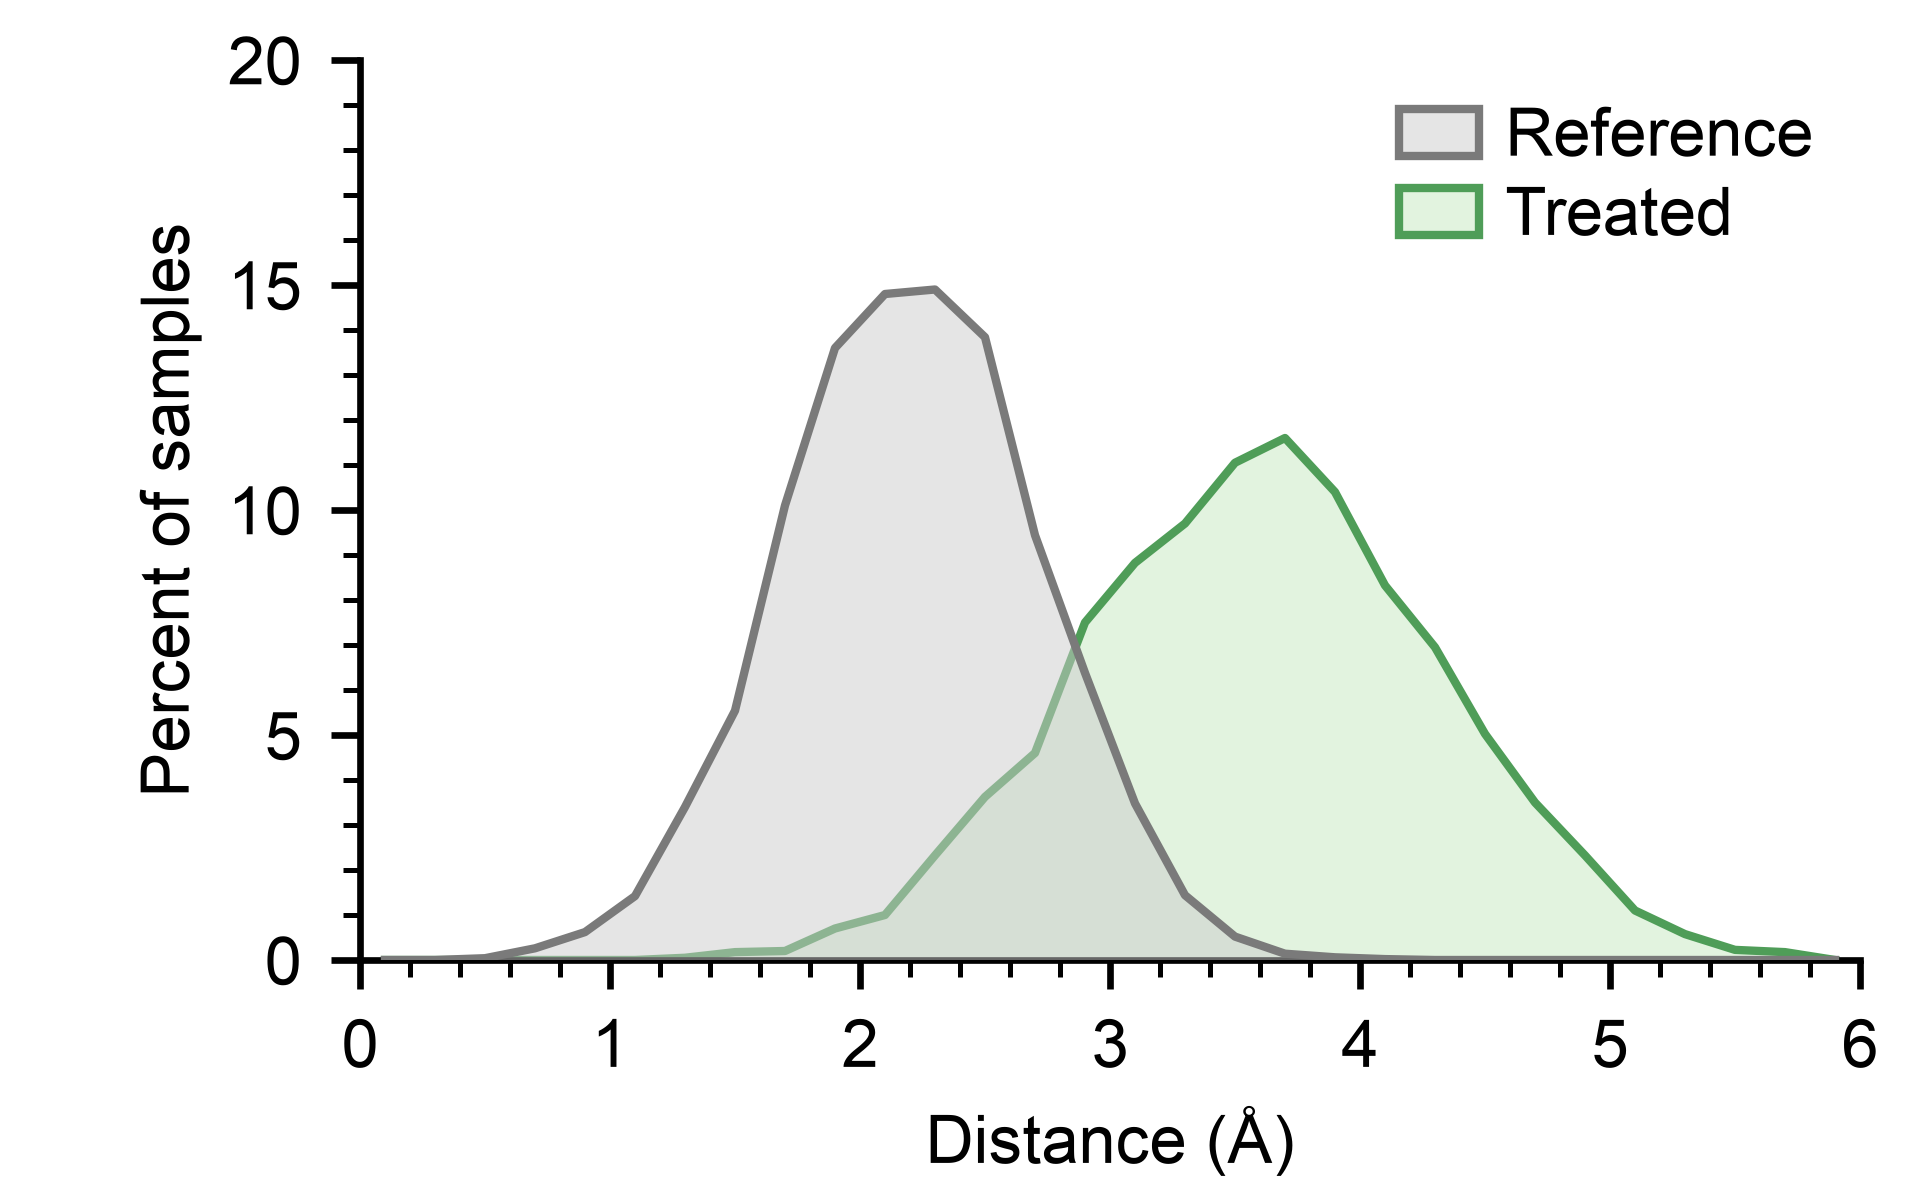
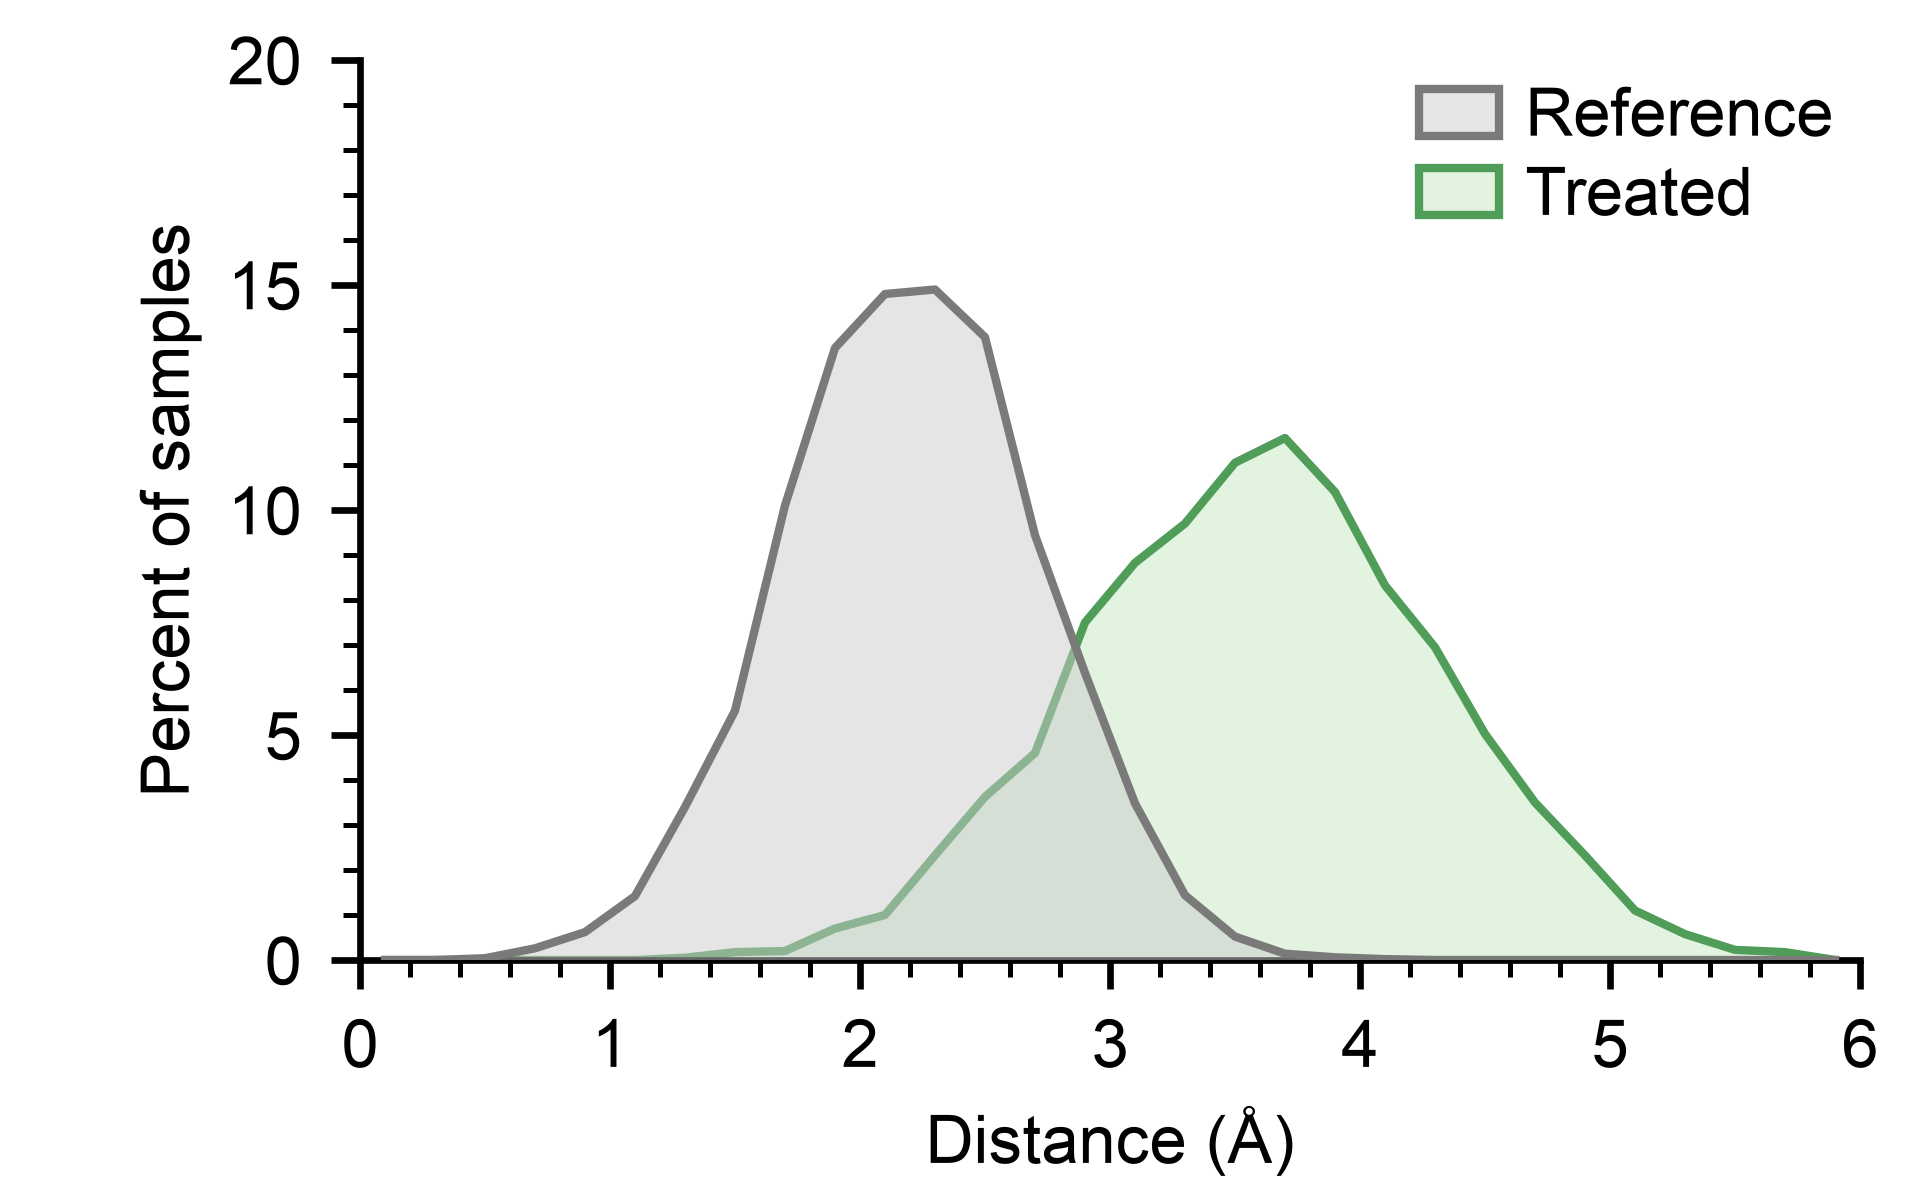
docs(examples): place the distribution legend with legend_inches on the grid

Changed region(s): [[0.7188, 0.0617, 0.9688, 0.2158]]

diff --git a/examples/personal_demo.py b/examples/personal_demo.py
@@ -220,7 +220,7 @@ for sample, pair, zorder in zip(samples.values(), (REFERENCE, TREATED), (4.0, 2.
             ax, edges, counts, sample.size, fill=pair.fill, edge=pair.edge, zorder=zorder
         )
     )
-ax.legend(proxies, list(samples))
+mpp.legend_inches(ax, 3.1, 1.9, loc="upper right", handles=proxies, labels=list(samples))
 ax.set(xlim=(0.0, 6.0), ylim=(0.0, 20.0), xlabel="Distance (\u00c5)", ylabel="Percent of samples")
 ax.yaxis.set_major_locator(MultipleLocator(5.0))
 mpp.assert_figure(fig, warnings_as_errors=True)
